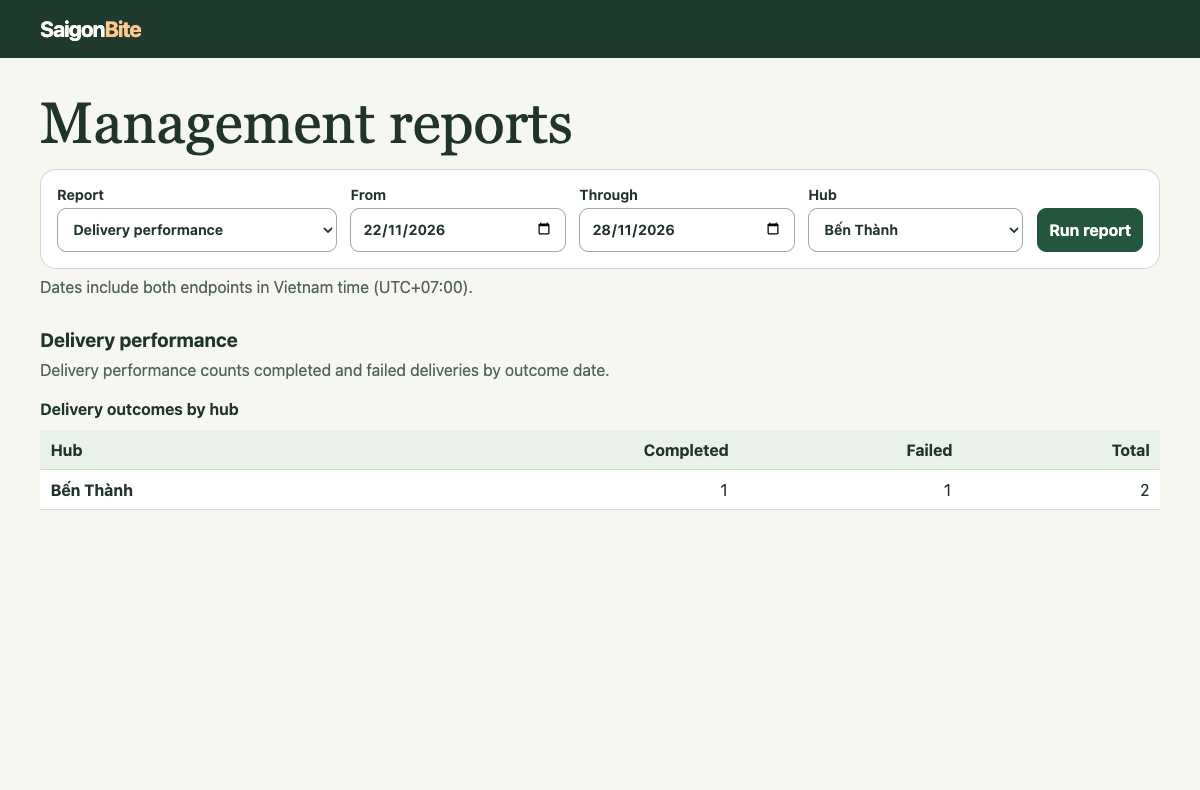
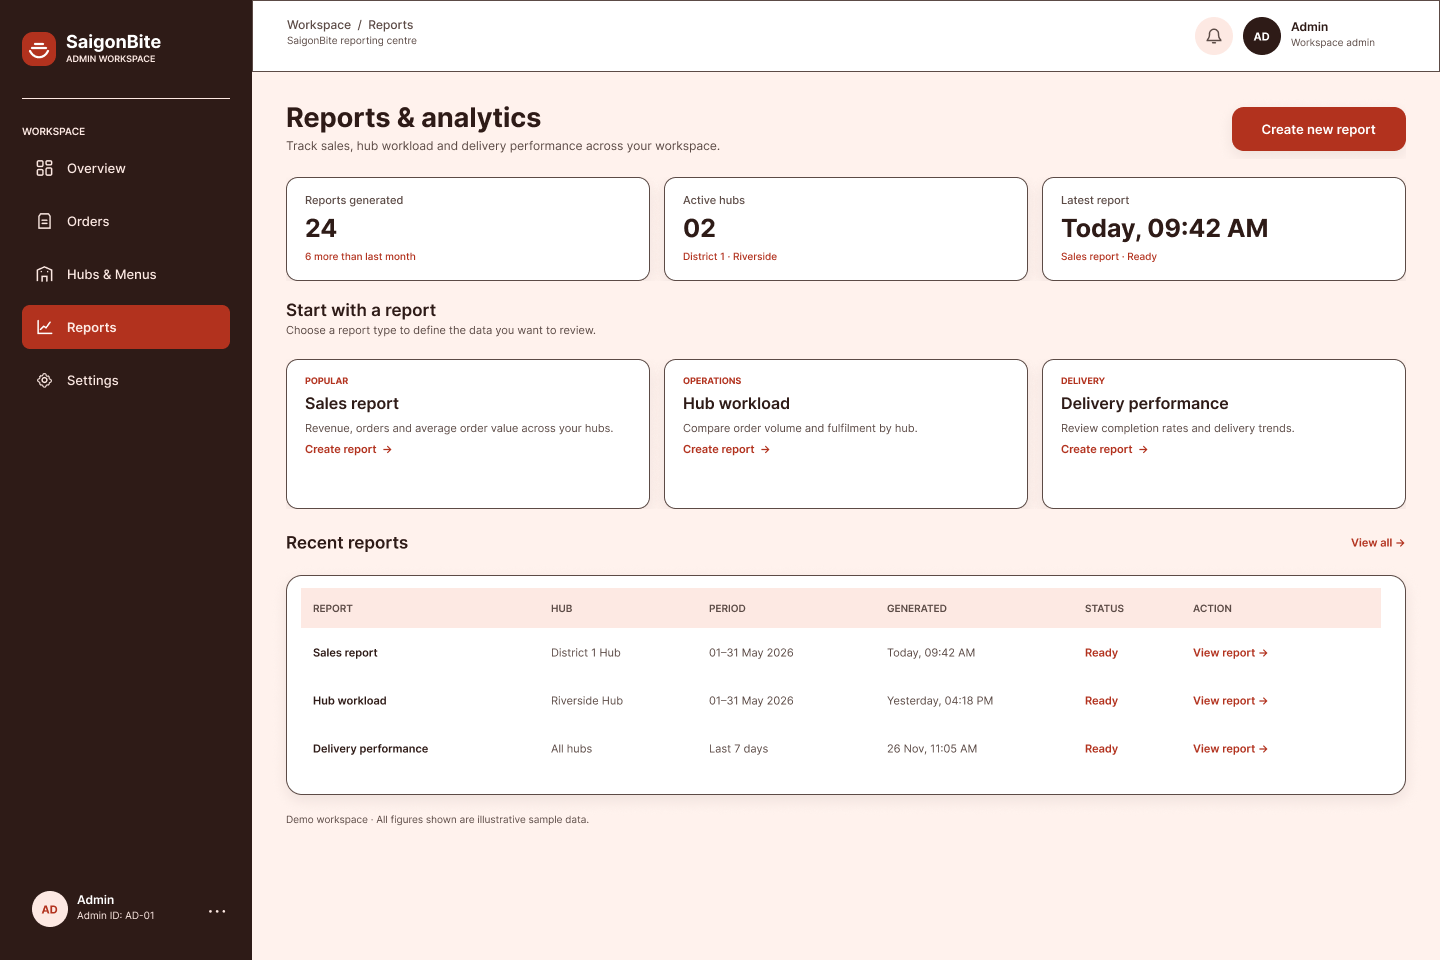
docs: add UC1 and UC4 Figma prototype screenshots

diff --git a/docs/uc1-checkout.md b/docs/uc1-checkout.md
@@ -11,12 +11,34 @@ The current browser prototype is available at the root URL printed by npm start.
 5. For the alternative-hub case, start another order at Riverside. Its sample queue is full. Check delivery and accept the suggested Bến Thành alternative.
 6. To test payment recovery, select Online payment and choose Payment failed. Return to order review to re-quote, retry using the same payment reference, or use Menu to cancel checkout.
 
-The customer picker represents local sample accounts. It is a demo input on the loopback server. Address coverage uses the selected sample area and its stored hub distance. Local and tourist demo accounts can select COD or the simulator. Real payment authorization, production authentication, and the shared Figma shell are outside the behavior of this checkout preview.
+The customer picker represents local sample accounts. It is a demo input on the loopback server. Address coverage uses the selected sample area and its stored hub distance. Local and tourist demo accounts can select COD or the simulator. Online payment and customer sign-in are simulated in the local app.
+
+## Figma prototype screenshots
+
+[Open the UC1 mobile prototype in Figma](https://www.figma.com/design/iD7ki5jjLIyrZrvBg7Fbe0/SaigonBite-%E2%80%94-UC1---UC4?node-id=116-2). These screenshots come from the Figma frames and show the prototype’s sample data.
+
+### Checkout screens
+
+- [Select Hub & Brand](uc1/prototype/01-select-hub-and-brand.png)
+- [Browse Menu & Cart](uc1/prototype/02-menu-and-cart.png)
+- [Delivery Address & Eligibility](uc1/prototype/03-delivery-eligibility.png)
+- [Voucher & Order Review](uc1/prototype/04-voucher-and-review.png)
+- [Payment Method](uc1/prototype/05-payment-method.png)
+- [Online Payment Processing](uc1/prototype/06-online-payment.png)
+- [Order Confirmation](uc1/prototype/07-order-confirmation.png)
+- [Payment Failed](uc1/prototype/08-payment-failed.png)
+
+### Feedback overlays
+
+- [Added to Cart](uc1/prototype/overlay-added-to-cart.png)
+- [Eligibility Passed](uc1/prototype/overlay-eligibility-passed.png)
+- [Alternative Hub Suggested](uc1/prototype/overlay-alternative-hub.png)
+- [Voucher Feedback](uc1/prototype/overlay-voucher-feedback.png)
 
 ## Report evidence
 
 - Section 4.3.2 uses the [editable checkout sequence](uc1-checkout-sequence.mmd).
-- Section 4.3.3 can use the running checkout as a prototype. The shared Figma shell and the team’s sketch and wireframe exports can be linked when available.
+- Section 4.3.3 uses the Figma prototype screens and overlays linked above.
 - Section 4.3.5 references quoteOrder, submitCheckout and cancelCheckout in [checkout.mjs](../src/uc1/service.mjs).
 - Section 5.1 can use [checkout.test.mjs](../test/checkout.test.mjs) to reproduce the checks for a one-payment receipt, hub alternatives, invalid inputs, declined authorization, retry and cancellation.
 

diff --git a/docs/uc4/README.md b/docs/uc4/README.md
@@ -13,6 +13,16 @@ With fresh sample data and the default range, expect two confirmed Bến Thành 
 ## Design and prototype evidence
 
 - [Original sketch and wireframe](sketch-wireframe.png)
-- [Sales screen mockup captured from the implemented layout](sales-mockup.png)
-- [Running prototype with the Bến Thành delivery filter applied](prototype.png)
+- [Open the UC4 desktop prototype in Figma](https://www.figma.com/design/iD7ki5jjLIyrZrvBg7Fbe0/SaigonBite-%E2%80%94-UC1---UC4?node-id=47-56)
 - [Reporting query sequence](report-sequence.mmd)
+
+### Figma prototype screenshots
+
+These screenshots come from the Figma frames and show the prototype’s sample report figures.
+
+- [Reports Dashboard](prototype.png)
+- [Report Criteria](prototype/02-report-criteria.png)
+- [Sales Report Preview](sales-mockup.png)
+- [Invalid Criteria](prototype/04-invalid-criteria.png)
+- [No Matching Records](prototype/05-no-matching-records.png)
+- [Report Generation Error](prototype/06-report-generation-error.png)
